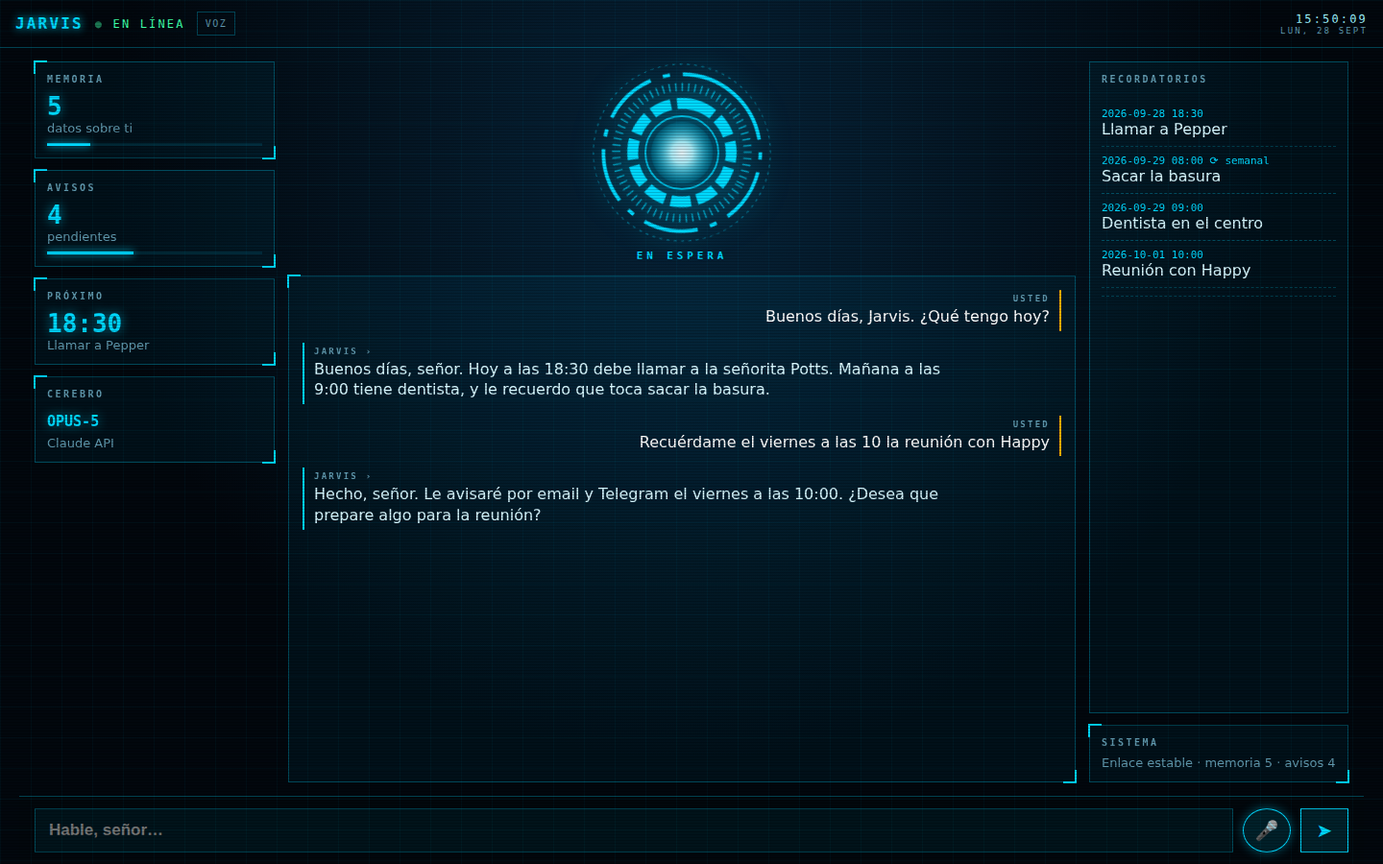
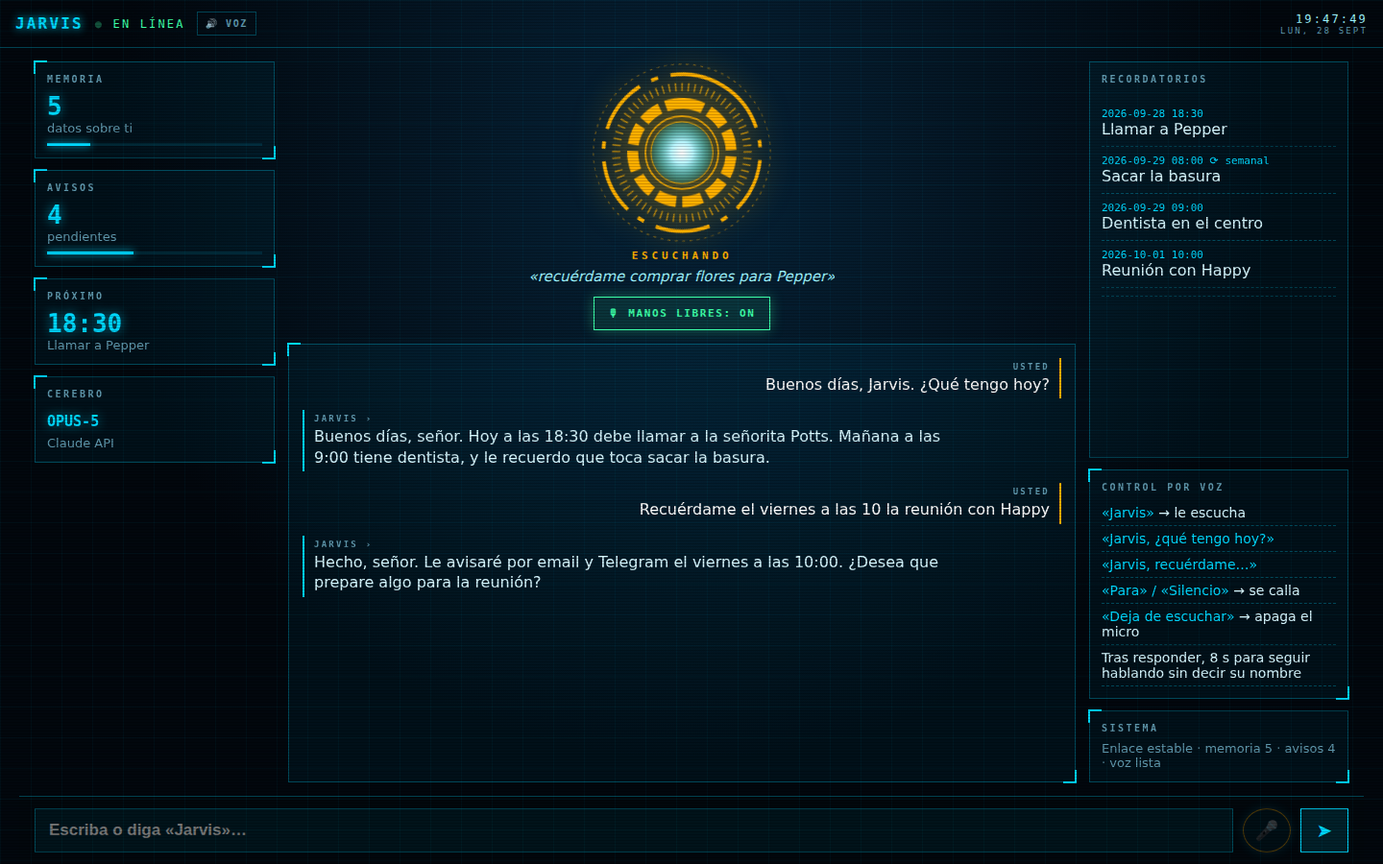
Control por voz manos libres y HUD adaptado
- Palabra de activación («Jarvis»), escucha continua, respuestas habladas
  y 8 s de conversación sin repetir el nombre.
- Comandos locales: «para»/«silencio» y «deja de escuchar».
- HUD: botón MANOS LIBRES, estado ESCUCHA ACTIVA, transcripción en vivo,
  chuleta de comandos y pantalla siempre encendida en modo voz.
- Las órdenes por voz piden respuestas cortas y sin formato.
- Ajustes de voz en config.json y README actualizado.

Claude-Session: https://claude.ai/code/session_01MvAp3opPkZ5soB22hkvqHA

diff --git a/index.html b/index.html
@@ -2,16 +2,19 @@
 <meta name="theme-color" content="#02070d"><title>{{NAME}}</title>
 <link rel="preconnect" href="https://fonts.gstatic.com" crossorigin><link href="https://fonts.googleapis.com/css2?family=Orbitron:wght@500;700&family=Rajdhani:wght@500;600&display=swap" rel="stylesheet">
 <style>
-:root{--c:#00d8ff;--c2:#9ff4ff;--hot:#ffb000;--bg:#02070d;--panel:rgba(0,190,255,.05);--line:rgba(0,216,255,.28);--dim:#5f98ad;--h:'Orbitron',ui-monospace,monospace}
+:root{--c:#00d8ff;--c2:#9ff4ff;--hot:#ffb000;--bg:#02070d;--panel:rgba(0,190,255,.05);--line:rgba(0,216,255,.28);--dim:#5f98ad;--ok:#3dffa8;--h:'Orbitron',ui-monospace,monospace}
 *{box-sizing:border-box}html,body{height:100%;margin:0}
 body{background:radial-gradient(ellipse at 50% 20%,#06243a 0,var(--bg) 60%);color:#d6f7ff;font:500 16px 'Rajdhani',system-ui,sans-serif;display:flex;flex-direction:column;overflow:hidden}
 body::before{content:"";position:fixed;inset:0;pointer-events:none;background:linear-gradient(rgba(0,216,255,.04) 1px,transparent 1px) 0 0/100% 32px,linear-gradient(90deg,rgba(0,216,255,.04) 1px,transparent 1px) 0 0/32px 100%}
 body::after{content:"";position:fixed;inset:0;pointer-events:none;background:repeating-linear-gradient(transparent 0 2px,rgba(0,0,0,.18) 2px 3px)}
 header{display:flex;align-items:center;gap:12px;padding:12px 16px;border-bottom:1px solid var(--line);font-family:var(--h);letter-spacing:.18em;font-size:12px}
 header b{font-size:16px;color:var(--c);text-shadow:0 0 10px var(--c)}
-.on{color:#3dffa8}.on::before{content:"● ";animation:blink 2s infinite}
+.on{color:var(--ok)}.on::before{content:"● ";animation:blink 2s infinite}
 #clock{margin-left:auto;text-align:right;color:var(--c2)}#clock small{display:block;color:var(--dim);font-size:9px}
-#vt{background:none;border:1px solid var(--line);color:var(--dim);font:10px var(--h);letter-spacing:.15em;padding:6px 8px;cursor:pointer}#vt.a{color:var(--c);border-color:var(--c)}
+#vt,#hf{background:none;border:1px solid var(--line);color:var(--dim);font:700 10px var(--h);letter-spacing:.15em;padding:6px 8px;cursor:pointer}#vt.a{color:var(--c);border-color:var(--c)}
+#hf{margin-top:10px;padding:10px 14px;font-size:11px;color:var(--c);border-color:var(--c);background:rgba(0,216,255,.08)}#hf.a{color:var(--ok);border-color:var(--ok);background:rgba(61,255,168,.1);box-shadow:0 0 14px rgba(61,255,168,.35)}
+#heard{margin-top:6px;min-height:1.3em;max-width:340px;text-align:center;color:var(--c2);font-style:italic;font-size:15px;overflow:hidden;text-overflow:ellipsis;white-space:nowrap}#heard.d{color:var(--dim);font-style:normal;font-size:13px}
+#cmds li{list-style:none;padding:5px 0;border-bottom:1px dashed var(--line);font-size:14px}#cmds ul{margin:0;padding:0}#cmds em{color:var(--c);font-style:normal}
 main{flex:1;min-height:0;display:grid;gap:14px;padding:14px 16px;grid-template:"left reactor right" auto "left chat right" 1fr/250px minmax(0,1fr) 270px;max-width:1400px;width:100%;margin:auto}
 main>*{min-width:0}.p{position:relative;border:1px solid var(--line);background:var(--panel);padding:12px}
 .p::before,.p::after{content:"";position:absolute;width:12px;height:12px;border:2px solid var(--c)}
@@ -20,7 +23,7 @@ h2{margin:0 0 8px;font:700 10px var(--h);letter-spacing:.25em;color:var(--dim)}
 #stats{grid-area:left;display:flex;flex-direction:column;gap:12px}
 .v{font:700 26px var(--h);color:var(--c);text-shadow:0 0 12px rgba(0,216,255,.6)}.s{color:var(--dim);font-size:13px;overflow:hidden;text-overflow:ellipsis;white-space:nowrap}
 .bar{height:3px;background:rgba(0,216,255,.12);margin-top:8px}.bar i{display:block;height:100%;background:var(--c);box-shadow:0 0 8px var(--c);transition:width 1s}
-#rx{grid-area:reactor;display:flex;flex-direction:column;align-items:center}
+#rx{grid-area:reactor;display:flex;flex-direction:column;align-items:center}#vx{display:flex;flex-direction:column;align-items:center;min-width:0}
 svg{width:190px;height:190px;overflow:visible;filter:drop-shadow(0 0 14px rgba(0,216,255,.55))}
 svg circle{fill:none;stroke:var(--c);transform-box:fill-box;transform-origin:center}
 .r1{stroke-width:1;stroke-dasharray:3 5;opacity:.6;animation:spin 40s linear infinite}
@@ -31,7 +34,8 @@ svg circle{fill:none;stroke:var(--c);transform-box:fill-box;transform-origin:cen
 #state{margin-top:6px;font:700 11px var(--h);letter-spacing:.35em;color:var(--c)}
 [data-s=think] svg circle{animation-duration:2s}[data-s=think] .core{animation-duration:.6s}
 [data-s=listen] svg circle{stroke:var(--hot)}[data-s=listen] #state{color:var(--hot)}[data-s=listen] svg{filter:drop-shadow(0 0 16px rgba(255,176,0,.7))}
-[data-s=speak] .core{animation-duration:.35s}
+[data-s=speak] .core{animation-duration:.35s}[data-s=speak] .r2{animation-duration:3s}
+[data-s=armed] #state{color:var(--ok)}[data-s=armed] .r5{stroke:var(--ok);stroke-width:3;animation:pulse 2s infinite}[data-s=armed] .r1{stroke:var(--ok);animation-duration:8s}
 #chat{grid-area:chat;display:flex;flex-direction:column;min-height:0;padding:0}
 #log{flex:1;overflow:auto;padding:14px;display:flex;flex-direction:column;gap:12px;scrollbar-width:thin;scrollbar-color:var(--line) transparent}
 .m{max-width:85%;white-space:pre-wrap;line-height:1.35;animation:in .3s}
@@ -39,7 +43,7 @@ svg circle{fill:none;stroke:var(--c);transform-box:fill-box;transform-origin:cen
 .j{border-left:2px solid var(--c);padding:4px 0 4px 10px}.u{align-self:flex-end;text-align:right;border-right:2px solid var(--hot);padding:4px 10px 4px 0;color:#fff}
 .dots::after{content:"▮";animation:blink .6s infinite;color:var(--c)}
 #right{grid-area:right;display:flex;flex-direction:column;gap:12px;min-height:0}
-#rem{flex:1;overflow:auto}#rem div{padding:8px 0;border-bottom:1px dashed var(--line)}#rem time{display:block;font:500 11px var(--h);color:var(--c)}
+#rem{flex:1;overflow:auto;min-height:0}#rem div{padding:8px 0;border-bottom:1px dashed var(--line)}#rem time{display:block;font:500 11px var(--h);color:var(--c)}
 form{display:flex;gap:10px;padding:12px 16px calc(12px + env(safe-area-inset-bottom));border-top:1px solid var(--line);background:rgba(2,7,13,.85);max-width:1400px;width:100%;margin:auto}
 input{flex:1;min-width:0;background:rgba(0,216,255,.06);border:1px solid var(--line);color:#fff;font:600 17px 'Rajdhani',sans-serif;padding:12px 14px;outline:none}
 input:focus{border-color:var(--c);box-shadow:0 0 12px rgba(0,216,255,.3)}
@@ -48,14 +52,14 @@ form button{width:50px;flex:none;border:1px solid var(--c);background:rgba(0,216
 @keyframes spin{to{transform:rotate(360deg)}}@keyframes pulse{50%{opacity:.55}}@keyframes blink{50%{opacity:.3}}@keyframes in{from{opacity:0;transform:translateY(6px)}}
 @media(max-width:900px){main{grid-template:"reactor" auto "left" auto "chat" 1fr/minmax(0,1fr);gap:10px;padding:10px 12px}#right{display:none}
  #stats{flex-direction:row;gap:8px}#stats .p{flex:1;min-width:0;padding:8px}.v{font-size:18px}h2{font-size:8px;letter-spacing:.15em;margin-bottom:4px}.s{font-size:11px}
- #rx{flex-direction:row;justify-content:center;gap:16px}svg{width:118px;height:118px}#state{margin:0}header .hide{display:none}}
+ #rx{flex-direction:row;justify-content:center;gap:14px}svg{width:118px;height:118px;flex:none}#state{margin:0;letter-spacing:.2em}#heard{max-width:200px;font-size:14px}#hf{padding:9px 10px;font-size:10px}header .hide{display:none}}
 </style></head><body data-s="idle">
-<header><b>{{NAME}}</b><span class="on hide">EN LÍNEA</span><button id="vt" type="button">VOZ</button><div id="clock"></div></header>
+<header><b>{{NAME}}</b><span class="on hide">EN LÍNEA</span><button id="vt" type="button" title="Leer siempre las respuestas en voz alta">🔊 VOZ</button><div id="clock"></div></header>
 <main>
  <section id="rx"><svg viewBox="0 0 200 200"><defs><radialGradient id="g"><stop offset="0" stop-color="#fff"/><stop offset=".35" stop-color="#b8f6ff"/><stop offset="1" stop-color="#00d8ff" stop-opacity=".15"/></radialGradient></defs>
   <circle class="r1" cx="100" cy="100" r="97"/><circle class="r2" cx="100" cy="100" r="86"/><circle class="r3" cx="100" cy="100" r="72"/>
   <circle class="r4" cx="100" cy="100" r="54"/><circle class="r5" cx="100" cy="100" r="40"/><circle class="core" cx="100" cy="100" r="34"/></svg>
-  <div><div id="state">EN ESPERA</div></div></section>
+  <div id="vx"><div id="state">EN ESPERA</div><div id="heard" class="d">Pulse para hablar sin manos</div><button id="hf" type="button">🎙 MANOS LIBRES</button></div></section>
  <aside id="stats">
   <div class="p"><h2>MEMORIA</h2><div class="v" id="sf">0</div><div class="s">datos sobre ti</div><div class="bar"><i id="bf"></i></div></div>
   <div class="p"><h2>AVISOS</h2><div class="v" id="sr">0</div><div class="s">pendientes</div><div class="bar"><i id="br"></i></div></div>
@@ -64,31 +68,68 @@ form button{width:50px;flex:none;border:1px solid var(--c);background:rgba(0,216
  </aside>
  <section id="chat" class="p"><div id="log"></div></section>
  <aside id="right"><div class="p" id="rem"><h2>RECORDATORIOS</h2><div id="rl"></div></div>
-  <div class="p"><h2>SISTEMA</h2><div class="s" id="sys"></div></div></aside>
+  <div class="p" id="cmds"><h2>CONTROL POR VOZ</h2><ul><li><em>«Jarvis»</em> → le escucha</li><li><em>«Jarvis, ¿qué tengo hoy?»</em></li><li><em>«Jarvis, recuérdame…»</em></li><li><em>«Para» / «Silencio»</em> → se calla</li><li><em>«Deja de escuchar»</em> → apaga el micro</li><li>Tras responder, 8 s para seguir hablando sin decir su nombre</li></ul></div>
+  <div class="p"><h2>SISTEMA</h2><div class="s" id="sys" style="white-space:normal"></div></div></aside>
 </main>
-<form id="f"><input id="i" placeholder="Hable, señor…" autocomplete="off"><button type="button" id="mic">🎤</button><button>➤</button></form>
+<form id="f"><input id="i" placeholder="Escriba o diga «Jarvis»…" autocomplete="off"><button type="button" id="mic">🎤</button><button>➤</button></form>
 <script>
-const $=s=>document.getElementById(s),NAME=document.title,R={daily:'diario',weekly:'semanal'},L={idle:'EN ESPERA',think:'PROCESANDO',listen:'ESCUCHANDO',speak:'HABLANDO'};
-let voice=localStorage.getItem('voz')==='1',loaded=false;$('vt').classList.toggle('a',voice);
-const st=s=>{document.body.dataset.s=s;$('state').textContent=L[s]};
+const $=s=>document.getElementById(s),NAME=document.title,R={daily:'diario',weekly:'semanal'},
+ L={idle:'EN ESPERA',armed:'ESCUCHA ACTIVA',listen:'ESCUCHANDO',think:'PROCESANDO',speak:'HABLANDO'},
+ SR=window.SpeechRecognition||window.webkitSpeechRecognition,TTS=window.speechSynthesis;
+const ls=(k,v)=>{try{return v===undefined?localStorage.getItem(k):localStorage.setItem(k,v)}catch(e){}};
+let V={wake_words:['jarvis']},WAKE=/\bjarvis\b[\s,.:;!]*/i,voice=ls('voz')==='1',hands=false,rec=null,busy=false,awake=0,follow=0,lock=null,loaded=false;
+$('vt').classList.toggle('a',voice);
+const W=()=>V.wake_words[0].replace(/^./,c=>c.toUpperCase()),st=s=>{document.body.dataset.s=s;$('state').textContent=L[s]};
+const heard=(t,dim)=>{$('heard').textContent=t;$('heard').classList.toggle('d',!!dim)};
+const idle=()=>{if(busy||TTS&&TTS.speaking)return;const n=Date.now(),on=awake>n||follow>n;
+ st(hands?(on?'listen':'armed'):'idle');heard(hands?(on?'Le escucho, señor…':`Diga «${W()}» y su orden`):'Pulse para hablar sin manos',1)};
 const add=(t,u,cls='')=>{const d=document.createElement('div'),b=document.createElement('b'),p=document.createElement('span');d.className='m '+(u?'u':'j');
  b.textContent=u?'USTED':NAME+' ›';p.textContent=t;p.className=cls;d.append(b,p);$('log').append(d);$('log').scrollTop=1e9;return p};
-const tick=()=>{const d=new Date();$('clock').innerHTML=d.toLocaleTimeString([],{hour:'2-digit',minute:'2-digit',second:'2-digit'})+'<small>'+d.toLocaleDateString([],{weekday:'short',day:'numeric',month:'short'}).toUpperCase()+'</small>'};
+const tick=()=>{const d=new Date();$('clock').innerHTML=d.toLocaleTimeString([],{hour:'2-digit',minute:'2-digit',second:'2-digit'})+'<small>'+d.toLocaleDateString([],{weekday:'short',day:'numeric',month:'short'}).toUpperCase()+'</small>';
+ if(hands&&!rec&&!busy&&!(TTS&&TTS.speaking))listen();if(awake&&awake<Date.now()){awake=0;idle()}};
 async function load(){try{const s=await(await fetch('/status')).json(),r=s.reminders;
+ if(!loaded){V=s.voice;WAKE=new RegExp('\\b('+V.wake_words.join('|')+')\\b[\\s,.:;!]*','i')}
  $('sf').textContent=s.facts;$('bf').style.width=Math.min(100,s.facts*4)+'%';$('sr').textContent=r.length;$('br').style.width=Math.min(100,r.length*10)+'%';
- $('sn').textContent=r[0]?r[0][0].slice(11):'--:--';$('snt').title='';const hoy=new Date().toLocaleDateString('sv');$('snt').textContent=r[0]?(r[0][0].slice(0,10)==hoy?'':r[0][0].slice(8,10)+'/'+r[0][0].slice(5,7)+' · ')+r[0][1]:'sin avisos';
+ const hoy=new Date().toLocaleDateString('sv');$('sn').textContent=r[0]?r[0][0].slice(11):'--:--';
+ $('snt').textContent=r[0]?(r[0][0].slice(0,10)==hoy?'':r[0][0].slice(8,10)+'/'+r[0][0].slice(5,7)+' · ')+r[0][1]:'sin avisos';
  $('sm').textContent=s.model.replace('claude-','').toUpperCase();$('smt').textContent=s.free?'local · gratis':'Claude API';
  $('rl').replaceChildren(...r.map(([d,t,rep])=>{const e=document.createElement('div'),tm=document.createElement('time');tm.textContent=d+(rep?' ⟳ '+R[rep]:'');e.append(tm,t);return e}));
- $('sys').textContent=`Enlace estable · memoria ${s.facts} · avisos ${r.length}`;
- if(!loaded){loaded=true;s.chat.forEach(([ro,t])=>add(t,ro=='user'));if(!s.chat.length)add('Todos los sistemas operativos. ¿En qué puedo ayudarle?')}}catch(e){}}
-async function send(t){if(!t.trim())return;add(t,1);$('i').value='';st('think');const p=add('','',  'dots');
- try{p.textContent=(await(await fetch('/',{method:'POST',headers:{'Content-Type':'application/json'},body:JSON.stringify({msg:t})})).json()).reply}catch(e){p.textContent='Sin conexión con el servidor.'}
- p.className='';$('log').scrollTop=1e9;load();
- if(voice&&speechSynthesis){const u=new SpeechSynthesisUtterance(p.textContent);u.lang=navigator.language;u.onend=()=>st('idle');st('speak');speechSynthesis.speak(u)}else st('idle')}
+ $('sys').textContent=`Enlace estable · memoria ${s.facts} · avisos ${r.length} · voz ${SR?'lista':'no disponible'}`;
+ if(!loaded){loaded=true;s.chat.forEach(([ro,t])=>add(t,ro=='user'));if(!s.chat.length)add('Todos los sistemas operativos. ¿En qué puedo ayudarle?');if(ls('manos')==='1')setHands(true,false)}}catch(e){}}
+// ── Voz: escuchar ──
+function listen(){if(!SR||rec)return;rec=new SR();rec.lang=V.lang||navigator.language;rec.continuous=hands;rec.interimResults=true;
+ rec.onresult=e=>{let fin='',tmp='';for(let k=e.resultIndex;k<e.results.length;k++)e.results[k].isFinal?fin+=e.results[k][0].transcript:tmp+=e.results[k][0].transcript;
+  if(tmp)heard('«'+tmp.trim()+'»');if(fin.trim())onHeard(fin.trim())};
+ rec.onerror=e=>{if(/not-allowed/.test(e.error)){setHands(false);heard('Permiso de micrófono denegado',1)}};
+ rec.onend=()=>{rec=null;hands?setTimeout(()=>hands&&!busy&&!(TTS&&TTS.speaking)&&listen(),300):idle()};
+ try{rec.start()}catch(e){rec=null}}
+const mute=()=>{if(rec){rec.onend=null;rec.abort();rec=null}};
+function onHeard(t){const n=t.toLowerCase().replace(/[.!¡?¿,]/g,'').trim(),now=Date.now();
+ if(/^(para|parar|silencio|cállate|callate|basta|stop|calla)$/.test(n)){TTS&&TTS.cancel();return idle()}
+ if(/deja de escuchar|(desactiva|apaga) (la escucha|el micro|manos libres|la voz)/.test(n))return setHands(false,true);
+ if(!hands)return send(t,true);
+ const m=t.match(WAKE);
+ if(m){const c=t.slice(m.index+m[0].length).trim();if(c.length>1)return send(c,true);awake=now+8000;return say(V.ack||'¿Sí, señor?')}
+ if(awake>now||follow>now){awake=follow=0;return send(t,true)}
+ heard('«'+t+'»',1)}
+// ── Voz: hablar ──
+function say(t){if(!TTS){follow=Date.now()+8000;return idle()}mute();TTS.cancel();const u=new SpeechSynthesisUtterance(t);u.lang=V.lang||navigator.language;u.rate=V.rate||1;u.pitch=V.pitch||1;
+ const vs=TTS.getVoices().filter(v=>v.lang.replace('_','-').startsWith(u.lang.slice(0,2)));
+ u.voice=vs.find(v=>V.name&&v.name.includes(V.name))||vs.find(v=>v.lang.replace('_','-')==u.lang)||vs[0]||null;
+ u.onend=u.onerror=()=>{follow=Date.now()+8000;idle();if(hands)listen()};st('speak');heard('',1);TTS.speak(u)}
+async function send(t,byVoice){if(!t.trim()||busy)return;busy=true;mute();add(t,1);$('i').value='';st('think');heard('«'+t+'»',1);const p=add('','','dots');
+ try{p.textContent=(await(await fetch('/',{method:'POST',headers:{'Content-Type':'application/json'},body:JSON.stringify({msg:t,voice:!!byVoice})})).json()).reply}catch(e){p.textContent='Sin conexión con el servidor.'}
+ p.className='';$('log').scrollTop=1e9;busy=false;load();(byVoice||voice)?say(p.textContent):(idle(),hands&&listen())}
+// ── Modo manos libres ──
+async function setHands(on,announce){if(on&&!SR)return alert('Tu navegador no permite control por voz. Usa Chrome, Edge o Safari.');
+ hands=on;ls('manos',on?'1':'0');$('hf').classList.toggle('a',on);$('hf').textContent=on?'🎙 MANOS LIBRES: ON':'🎙 MANOS LIBRES';mute();
+ try{on?(lock=await navigator.wakeLock.request('screen')):(lock&&lock.release(),lock=null)}catch(e){}
+ if(announce)say(on?`Manos libres activado. Diga «${W()}» cuando me necesite.`:'Manos libres desactivado.');else{idle();on&&listen()}}
+document.addEventListener('visibilitychange',async()=>{if(hands&&document.visibilityState=='visible')try{lock=await navigator.wakeLock.request('screen')}catch(e){}});
+$('hf').onclick=()=>setHands(!hands,true);
+$('mic').onclick=()=>{if(!SR)return alert('Tu navegador no permite control por voz. Usa Chrome, Edge o Safari.');TTS&&TTS.cancel();
+ if(hands){awake=Date.now()+8000;idle();return listen()}mute();listen();st('listen');heard('Le escucho, señor…',1)};
 $('f').onsubmit=e=>{e.preventDefault();send($('i').value)};
-$('vt').onclick=()=>{voice=!voice;localStorage.setItem('voz',voice?'1':'0');$('vt').classList.toggle('a',voice)};
-const SR=window.SpeechRecognition||window.webkitSpeechRecognition;
-$('mic').onclick=()=>{if(!SR)return alert('Tu navegador no soporta voz (usa Chrome).');const s=new SR();s.lang=navigator.language;
- s.onresult=e=>{voice=true;$('vt').classList.add('a');send(e.results[0][0].transcript)};s.onend=()=>document.body.dataset.s=='listen'&&st('idle');st('listen');s.start()};
+$('vt').onclick=()=>{voice=!voice;ls('voz',voice?'1':'0');$('vt').classList.toggle('a',voice)};
 tick();setInterval(tick,1000);load();setInterval(load,30000);
 </script></body></html>

diff --git a/jarvis.py b/jarvis.py
@@ -90,13 +90,15 @@ def send_email(to: str, subject: str, body: str) -> str:
 
 TOOLS = [remember, forget, add_reminder, cancel_reminder, send_email] + ([] if URL else [{"type": "web_search_20260209", "name": "web_search"}])
 
-def ask(msg):  # el cerebro: memoria + contexto + herramientas
+def ask(msg, voice=False):  # el cerebro: memoria + contexto + herramientas
     with LOCK:
         facts = "\n".join(f"[#{i}] {t}" for i, t in q("SELECT id, text FROM facts")) or "(vacía)"
         rems = "\n".join(f"[#{i}] {d} {t} {r}" for i, d, t, r in q("SELECT id,due,text,repeat FROM reminders WHERE done=0 ORDER BY due")) or "(ninguno)"
         system = (C["personality"].format(**C) + f"\n\nResponde siempre en {C.get('language', 'español')}. "
                   f"Fecha y hora actual: {now()} ({TZ}). Email del usuario: {C.get('owner_email', '?')}.\n"
-                  f"Usa 'remember' cuando aprendas algo importante del usuario.\n\nMEMORIA:\n{facts}\n\nRECORDATORIOS PENDIENTES:\n{rems}")
+                  f"Usa 'remember' cuando aprendas algo importante del usuario.\n"
+                  + ("Este mensaje llega por voz y tu respuesta se leerá en voz alta: responde en 1-3 frases naturales, sin markdown, listas, emojis ni URLs.\n" if voice else "")
+                  + f"\nMEMORIA:\n{facts}\n\nRECORDATORIOS PENDIENTES:\n{rems}")
         hist = [{"role": r, "content": t} for r, t in q("SELECT role, text FROM (SELECT * FROM chat ORDER BY id DESC LIMIT ?) ORDER BY id", C.get("history", 30))]
         while hist and hist[0]["role"] != "user": hist.pop(0)
         model = C.get("model", "claude-opus-5")
@@ -135,7 +137,7 @@ def telegram():  # habla con Jarvis desde el móvil
         except Exception as e: print("Error Telegram:", e, flush=True); time.sleep(5)
 
 def status():  # datos en vivo para el HUD
-    return {"model": C.get("model", "claude-opus-5"), "free": bool(URL), "facts": q("SELECT COUNT(*) FROM facts")[0][0],
+    return {"voice": {"wake_words": [C["name"].lower()], **C.get("voice", {})}, "model": C.get("model", "claude-opus-5"), "free": bool(URL), "facts": q("SELECT COUNT(*) FROM facts")[0][0],
             "reminders": q("SELECT due, text, repeat FROM reminders WHERE done=0 ORDER BY due"),
             "chat": q("SELECT role, text FROM (SELECT * FROM chat ORDER BY id DESC LIMIT 20) ORDER BY id")}
 
@@ -153,7 +155,7 @@ class Web(BaseHTTPRequestHandler):  # interfaz web con voz
         self.send(PAGE.replace(b"{{NAME}}", C["name"].encode()), "text/html; charset=utf-8")
     def do_POST(self):
         if not self.auth(): return
-        try: r = ask(json.loads(self.rfile.read(int(self.headers["Content-Length"])))["msg"])
+        try: b = json.loads(self.rfile.read(int(self.headers["Content-Length"]))); r = ask(b["msg"], b.get("voice", False))
         except Exception as e: r = f"Error: {e}"
         self.send(json.dumps({"reply": r}).encode(), "application/json")
     def log_message(self, *a): pass

diff --git a/README.md b/README.md
@@ -1,16 +1,27 @@
 # 🤖 J.A.R.V.I.S. — tu asistente personal, como el de Tony Stark
 
 Un asistente con inteligencia artificial que **vive en un servidor 24 horas al día**, **tiene memoria propia**, **manda emails** y **te avisa de tus cosas importantes**.
-Le hablas **por voz o por escrito** desde el navegador, o **desde el móvil por Telegram**.
+Se controla **por voz, sin tocar nada**: dices *«Jarvis, …»* y te responde hablando. También puedes escribirle desde el navegador o **desde el móvil por Telegram**.
 
 - ✅ **100 % código abierto** (licencia MIT): úsalo, cámbialo o compártelo gratis.
-- ✅ **Todo el programa ocupa un archivo de unas 160 líneas** ([`jarvis.py`](jarvis.py)) más una página web ([`index.html`](index.html)).
+- ✅ **Todo el programa ocupa un archivo de unas 170 líneas** ([`jarvis.py`](jarvis.py)) más una página web ([`index.html`](index.html)).
+- ✅ **Control por voz manos libres** con palabra de activación, como en las películas.
 - ✅ **Puede ser 100 % gratis**: si no quieres pagar, usa la IA gratuita en tu propio ordenador ([ver cómo](#-opción-100--gratis-sin-pagar-nada)).
 - ✅ **Completamente personalizable**: nombre, personalidad, idioma, zona horaria, voz, informe diario… todo en un solo archivo de texto.
 
 <p align="center"><img src="docs/hud-movil.png" width="260" alt="Jarvis en el móvil"> &nbsp; <img src="docs/hud-escritorio.png" width="560" alt="Jarvis en el ordenador"></p>
 
-La interfaz es un **HUD estilo Iron Man**: un reactor animado que cambia según el estado de Jarvis (en espera, procesando, escuchando o hablando), un reloj, paneles con tu memoria y tus avisos en vivo, y el chat. Está pensada primero para el móvil.
+La interfaz es un **HUD estilo Iron Man** pensado primero para el móvil. El reactor cambia de color según lo que hace Jarvis:
+
+| Reactor | Estado | Qué significa |
+|---|---|---|
+| 🔵 Azul, lento | EN ESPERA | Manos libres apagado. Escríbele o pulsa 🎤. |
+| 🟢 Anillo verde | ESCUCHA ACTIVA | Manos libres encendido: espera a que digas «Jarvis». |
+| 🟠 Naranja | ESCUCHANDO | Te está escuchando. Debajo ves en directo lo que entiende. |
+| 🔵 Gira rápido | PROCESANDO | Está pensando la respuesta. |
+| 🔵 Núcleo latiendo | HABLANDO | Te está respondiendo en voz alta. |
+
+Además tiene reloj, paneles con tu memoria y tus avisos en vivo, el chat y, en el ordenador, la lista de recordatorios y una chuleta de comandos de voz.
 
 ---
 
@@ -18,6 +29,7 @@ La interfaz es un **HUD estilo Iron Man**: un reactor animado que cambia según 
 
 | Le dices… | Jarvis… |
 |---|---|
+| 🎙 *"Jarvis, ¿qué tengo hoy?"* (sin tocar el móvil) | Te **responde hablando** y sigue escuchando unos segundos por si quieres añadir algo. |
 | *"Recuerda que mi mujer se llama Pepper y le encantan las fresas"* | Lo guarda en su **memoria permanente** y lo tendrá en cuenta siempre. |
 | *"Avísame mañana a las 9 de que tengo dentista"* | Crea un **recordatorio** y a las 9:00 te llega un **email** (y un Telegram). |
 | *"Recuérdame cada lunes a las 8 que saque la basura"* | Recordatorio **repetitivo** (diario o semanal). |
@@ -77,7 +89,7 @@ python jarvis.py
 
 ### Paso 3 — Háblale
 
-- **Navegador**: abre `http://localhost:8000` (o `http://IP-DE-TU-SERVIDOR:8000`). Usuario: `jarvis`, contraseña: la que pusiste. Pulsa 🎤 para hablarle por voz (mejor en Chrome) y te **responderá hablando**.
+- **Navegador (con voz)**: abre `http://localhost:8000` (o `http://IP-DE-TU-SERVIDOR:8000`). Usuario: `jarvis`, contraseña: la que pusiste. Pulsa **🎙 MANOS LIBRES** y dile *«Jarvis, …»*. Más detalles en la sección «Control por voz» más abajo.
 - **Telegram**: escribe a tu bot. La primera vez te dirá tu *chat id*; ponlo en `"allowed_chats": [123456789]` en `config.json` y reinicia. Así **solo tú** puedes usarlo.
 - **Terminal**: `python jarvis.py chat`.
 
@@ -138,6 +150,35 @@ python jarvis.py
 
 ---
 
+## 🎙 Control por voz
+
+Jarvis funciona **solo con la voz**, sin tocar la pantalla.
+
+1. Abre la web de Jarvis (en el móvil, tablet u ordenador) y pulsa **🎙 MANOS LIBRES**. La primera vez el navegador te pedirá permiso para usar el micrófono: acéptalo.
+2. El reactor se pone con un **anillo verde**: está esperando su nombre.
+3. Di **«Jarvis»** seguido de lo que quieras, todo seguido: *«Jarvis, recuérdame mañana a las 9 que tengo dentista»*.
+   - O di solo **«Jarvis»**: te contestará *«¿Sí, señor?»* y tendrás 8 segundos para hablar.
+4. Te responde **en voz alta**. Después sigue escuchando **8 segundos** para que puedas contestarle sin repetir su nombre, como en una conversación normal.
+
+| Di… | Qué pasa |
+|---|---|
+| *«Jarvis»* | Se activa y te escucha. |
+| *«Jarvis, …cualquier cosa…»* | Lo hace y te responde hablando. |
+| *«Para»*, *«Silencio»*, *«Basta»* | Se calla al momento. |
+| *«Deja de escuchar»* / *«Apaga el micro»* | Desactiva el modo manos libres. |
+
+**Otras formas de usar la voz**
+- **Pulsar y hablar**: con manos libres apagado, pulsa 🎤, di tu frase y listo.
+- **🔊 VOZ** (arriba): si está encendido, Jarvis lee en voz alta **también** las respuestas a lo que escribes.
+
+**Consejos**
+- Mientras el modo manos libres está encendido, **la pantalla no se apaga sola**, para que Jarvis siga escuchando. Déjalo en un soporte, enchufado, y tendrás tu Jarvis de escritorio.
+- Funciona en **Chrome, Edge y Safari** (móvil y ordenador). Firefox todavía no permite reconocer voz.
+- Fuera de `localhost`, el micrófono **solo funciona con HTTPS** (ver la sección «Tenerlo encendido 24 horas»). Con Tailscale puedes activar HTTPS gratis con `tailscale serve`.
+- Si no te entiende bien el nombre, añade cómo lo oye a la lista `wake_words` (por ejemplo `"yarvis"`). Si cambias el nombre del asistente (p. ej. `"FRIDAY"`), pon también `"wake_words": ["friday"]`.
+
+---
+
 ## ☁ Tenerlo encendido 24 horas
 
 | Dónde | Cómo |
@@ -184,6 +225,7 @@ Y ejecuta `sudo systemctl enable --now jarvis`.
 | `personality` | **Su forma de ser.** Escríbela como quieras. `{name}` y `{owner}` se sustituyen solos | `"Eres un mayordomo sarcástico…"` |
 | `model` | Modelo de IA | Claude: `"claude-opus-5"` (más listo), `"claude-sonnet-5"`, `"claude-haiku-4-5"` (el más barato). Gratis: `"qwen3:8b"` |
 | `base_url` | Vacío = Claude. `"http://localhost:11434"` = Ollama gratis en tu PC | `""` |
+| `voice` | Ajustes de voz: `wake_words` (palabras que lo activan), `lang` (idioma de la voz, p. ej. `"es-ES"`, `"es-MX"`, `"en-US"`), `rate` (velocidad), `pitch` (tono; más bajo = más grave) y `name` (parte del nombre de una voz concreta de tu dispositivo, p. ej. `"Jorge"`) | `{"wake_words": ["jarvis"], "lang": "es-ES", "rate": 1.05, "pitch": 0.9}` |
 | `history` | Cuántos mensajes recientes de la conversación recuerda | `30` |
 | `briefing_time` | Hora del informe diario (vacío `""` = desactivado) | `"08:00"` |
 | `briefing_prompt` | Qué quieres en tu informe diario | `"Resúmeme el día y dame una frase motivadora"` |
@@ -231,7 +273,11 @@ El programa es **gratis**. Con el [modo gratis](#-opción-100--gratis-sin-pagar-
 - **"authentication_error" / "invalid x-api-key"** → la clave de `api_key` está mal copiada o no tienes saldo.
 - **No llegan los emails** → usa la *contraseña de aplicación* de Gmail, no la normal. Revisa la carpeta de spam.
 - **Los recordatorios llegan a otra hora** → revisa `timezone`.
-- **El micrófono no funciona** → usa Chrome y entra por `localhost` o HTTPS.
+- **El micrófono no funciona** → usa Chrome, Edge o Safari y entra por `localhost` o HTTPS. Revisa que diste permiso al micrófono (icono del candado junto a la dirección).
+- **No reacciona cuando digo «Jarvis»** → comprueba que el botón pone *MANOS LIBRES: ON*. Mira debajo del reactor qué entiende y añade esa palabra a `wake_words`.
+- **En Android suena un pitido cada pocos segundos** → es Chrome reiniciando la escucha. Puedes bajar el volumen de notificaciones o usar *pulsar y hablar* (🎤).
+- **La voz suena rara o en otro idioma** → cambia `voice.lang` o elige otra voz con `voice.name`. Las voces disponibles dependen de tu móvil u ordenador.
+- **El modo manos libres se para con el móvil en segundo plano o la pantalla bloqueada** → es una limitación de los navegadores. Déjalo con la web abierta en primer plano.
 - **Telegram dice "No autorizado"** → copia el número que te da en `allowed_chats` y reinicia.
 - **Modo gratis: "Connection refused"** → Ollama no está abierto. Ábrelo o ejecuta `ollama serve`.
 - **Modo gratis: "model not found"** → falta descargarlo: `ollama pull qwen3:8b` (el nombre debe coincidir con `"model"`).
@@ -243,6 +289,7 @@ El programa es **gratis**. Con el [modo gratis](#-opción-100--gratis-sin-pagar-
 ## 🔐 Privacidad y seguridad
 
 - Tus datos (memoria, recordatorios, conversación) se guardan **solo en tu servidor**. Con Claude, los mensajes se envían a su API para generar las respuestas; en el modo gratis con Ollama, **nada sale de tu ordenador** (salvo los emails y Telegram que tú actives).
+- **Voz:** el reconocimiento de voz lo hace tu navegador. Chrome y Edge envían el audio a los servidores de Google o Microsoft para transcribirlo; Safari puede hacerlo en el propio dispositivo. La voz de Jarvis se genera en tu dispositivo. El micrófono solo está activo con *manos libres* encendido o al pulsar 🎤.
 - `config.json` contiene tus contraseñas: **nunca lo subas a GitHub** (ya está en `.gitignore`).
 - Jarvis puede enviar emails en tu nombre; está instruido para confirmar contigo antes, salvo que se lo pidas claramente.
 
@@ -250,7 +297,7 @@ El programa es **gratis**. Con el [modo gratis](#-opción-100--gratis-sin-pagar-
 
 ## 🌍 English (short version)
 
-A self-hosted, fully customizable Tony-Stark-style AI assistant in **one ~160-line Python file**: persistent memory (SQLite), email sending, scheduled reminders and a daily briefing delivered by email/Telegram, web search, and a voice-enabled web UI. Setup: `cp config.example.json config.json`, fill in your Claude API key, email (SMTP) and password, set `"language": "English"`, then `docker compose up -d` (runs 24/7, auto-restarts) or `pip install -r requirements.txt && python jarvis.py`. Open `http://localhost:8000` (user `jarvis`). **Free mode, no API costs:** install [Ollama](https://ollama.com), run `ollama pull qwen3:8b`, and set `"base_url": "http://localhost:11434"` and `"model": "qwen3:8b"` in `config.json` (or use `docker compose -f docker-compose.gratis.yml up -d`). Everything runs on your own computer. MIT licensed.
+A self-hosted, fully customizable Tony-Stark-style AI assistant in **one ~170-line Python file**: persistent memory (SQLite), email sending, scheduled reminders and a daily briefing delivered by email/Telegram, web search, and an Iron-Man-style HUD with **hands-free voice control** (say *"Jarvis, …"* and it answers out loud; say *"stop"* to silence it). Setup: `cp config.example.json config.json`, fill in your Claude API key, email (SMTP) and password, set `"language": "English"`, then `docker compose up -d` (runs 24/7, auto-restarts) or `pip install -r requirements.txt && python jarvis.py`. Open `http://localhost:8000` (user `jarvis`). **Free mode, no API costs:** install [Ollama](https://ollama.com), run `ollama pull qwen3:8b`, and set `"base_url": "http://localhost:11434"` and `"model": "qwen3:8b"` in `config.json` (or use `docker compose -f docker-compose.gratis.yml up -d`). Everything runs on your own computer. MIT licensed.
 
 ---
 
